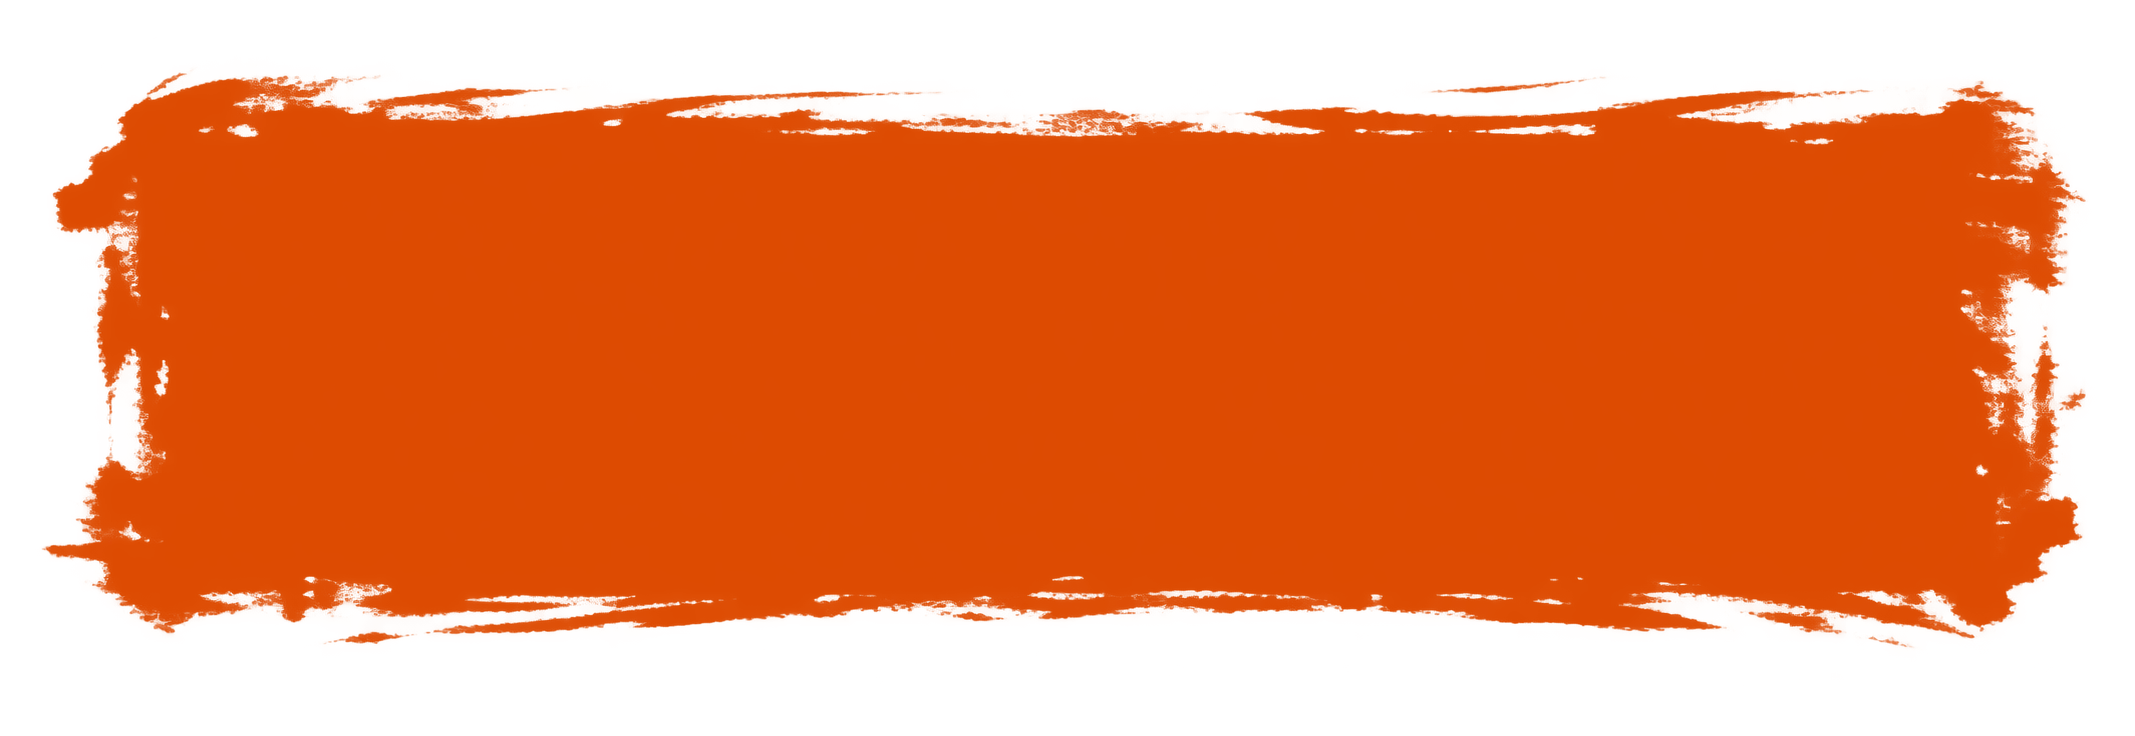
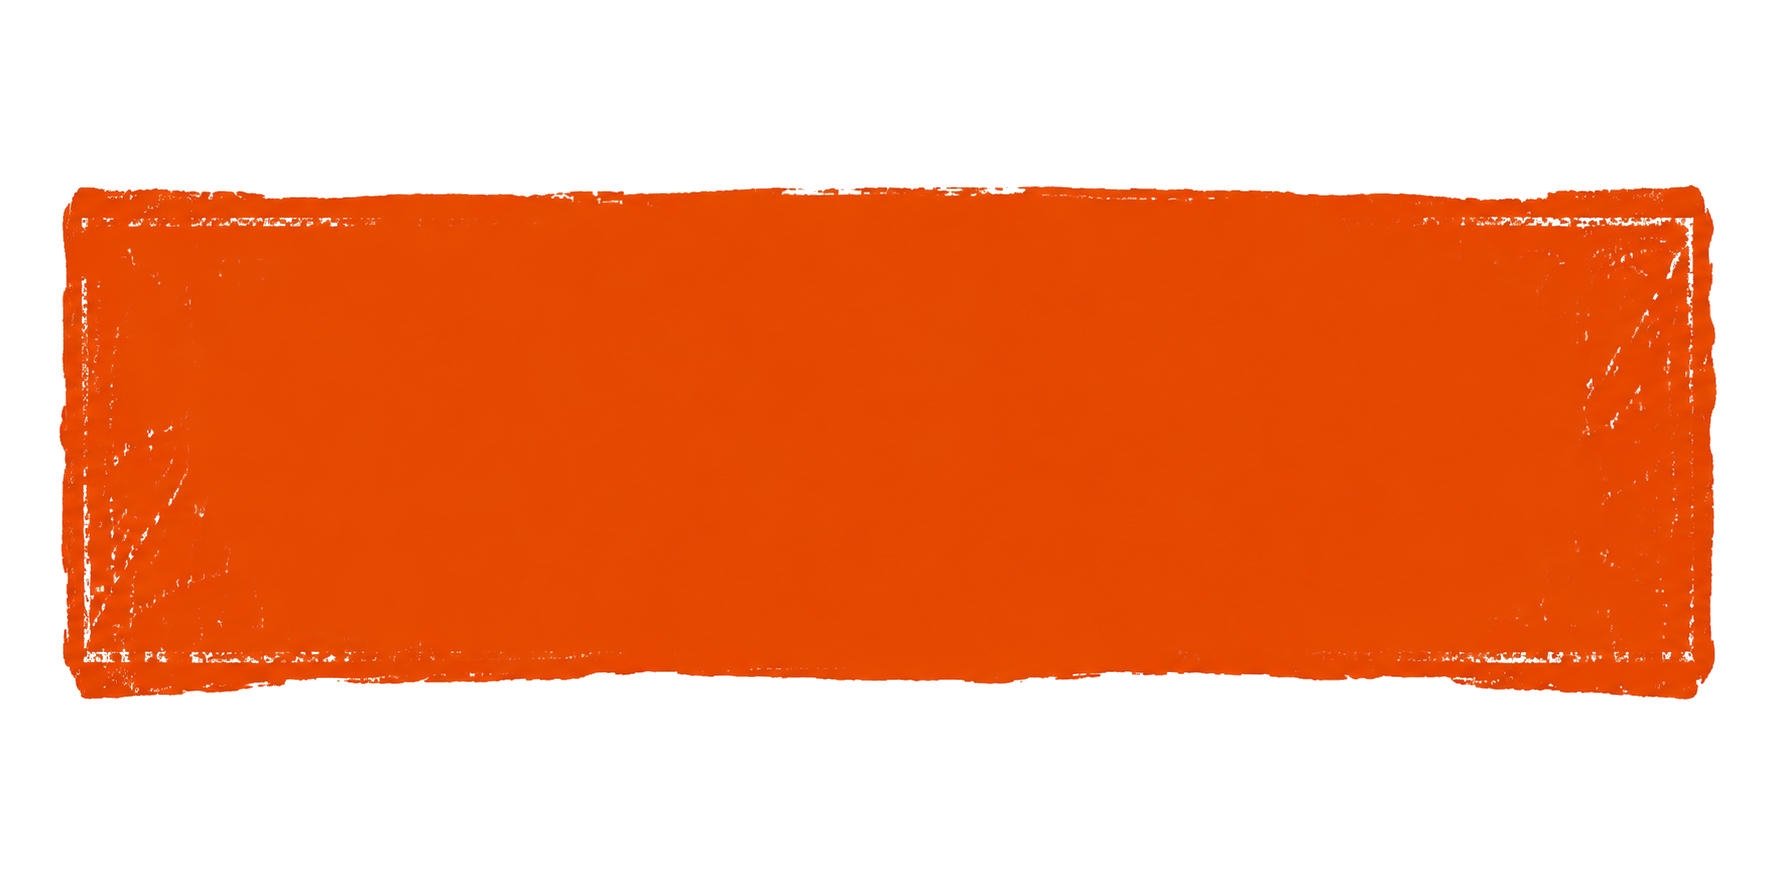
galeria de fotos tela principal

Changed region(s): [[0.0, 0.0938, 0.9921, 0.875], [0.6821, 0.0938, 0.7441, 0.125]]

diff --git a/src/css/style.css b/src/css/style.css
@@ -1346,32 +1346,39 @@ select {
 .expertise-header {
   padding-top: var(--space-section);
 }
+
 .expertise-header__container {
   max-width: 1000px;
   margin: 0 auto;
   text-align: center;
 }
+
 .expertise-header__title {
   color: var(--cor-primaria);
 }
+
 .expertise-header__text {
   color: var(--cor-texto);
   text-align: center;
   margin-bottom: 1.5rem;
 }
+
 .expertise--adjusted-padding {
   padding: 0;
 }
+
 .expertise__background--adjusted {
   background: var(--cor-terciaria);
   opacity: 0.1;
 }
+
 .expertise__container {
   position: relative;
   z-index: 1;
   padding-top: var(--container-padding-desktop);
   padding-bottom: var(--container-padding-desktop);
 }
+
 .expertise__content--centered {
   max-width: 1000px;
   margin: 0 auto;
@@ -1385,6 +1392,7 @@ select {
   gap: 1rem;
   text-align: left;
 }
+
 .transform-row {
   display: flex;
   flex-wrap: wrap;
@@ -1399,13 +1407,16 @@ select {
   border-image-repeat: round;
   padding: 0.75rem 1rem;
 }
+
 .transform-col {
   flex: 1;
   min-width: 250px;
 }
+
 .transform-col--right {
   text-align: right;
 }
+
 .transform-subtitle {
   font-size: 0.85rem;
   text-transform: uppercase;
@@ -1413,9 +1424,11 @@ select {
   color: #000;
   font-weight: bold;
 }
+
 .transform-subtitle--highlight {
   color: #000;
 }
+
 .transform-title {
   font-family: var(--font-heading);
   color: #000;
@@ -1423,9 +1436,11 @@ select {
   margin-top: 0.5rem;
   font-weight: bold;
 }
+
 .transform-title--highlight {
   color: #000;
 }
+
 .transform-arrow {
   width: 24px;
   margin: 1rem 2rem;
@@ -1449,6 +1464,12 @@ select {
   grid-template-columns: 1fr 1fr;
   gap: var(--space-md);
   align-items: stretch;
+}
+
+.solutions-overview__grid> :last-child:nth-child(odd) {
+  grid-column: 1 / -1;
+  justify-self: center;
+  width: calc(50% - (var(--space-md) / 2));
 }
 
 .solution-card {
@@ -2549,7 +2570,7 @@ main>section {
   max-width: 90%;
   max-height: 90vh;
   object-fit: contain;
-  box-shadow: 0 10px 40px rgba(0,0,0,0.5);
+  box-shadow: 0 10px 40px rgba(0, 0, 0, 0.5);
   cursor: zoom-out;
   transform: scale(0.95);
   transition: transform 0.3s ease;
@@ -2561,4 +2582,144 @@ main>section {
 
 .projeto-visualizer__image {
   cursor: zoom-in;
+}
+
+/* ==========================================================================
+   EDITORIAL GALLERY
+   ========================================================================== */
+
+.editorial-gallery {
+  display: grid;
+  grid-template-columns: 1fr 1fr;
+  gap: 0.75rem;
+  /* ~12px */
+  margin: 3rem auto;
+  max-width: 1200px;
+}
+
+.editorial-gallery__item {
+  display: flex;
+  flex-direction: column;
+  aspect-ratio: 1 / 1;
+}
+
+.editorial-gallery__item--featured {
+  grid-column: 1 / -1;
+  aspect-ratio: 4 / 3;
+}
+
+@media (min-width: 900px) {
+  .editorial-gallery {
+    grid-template-columns: 2fr 1fr 1fr;
+    grid-template-rows: 300px 300px;
+    gap: 1.5rem;
+    /* ~24px */
+  }
+
+  .editorial-gallery__item {
+    aspect-ratio: auto;
+  }
+
+  .editorial-gallery__item--featured {
+    grid-column: 1 / 2;
+    grid-row: 1 / 3;
+    aspect-ratio: auto;
+  }
+}
+
+.editorial-gallery__image-wrapper {
+  overflow: hidden;
+  width: 100%;
+  height: 100%;
+  position: relative;
+}
+
+.editorial-gallery__item .editorial-gallery__image-wrapper::after {
+  content: "";
+  position: absolute;
+  top: 0;
+  left: 0;
+  right: 0;
+  bottom: 0;
+  pointer-events: none;
+  border: 16px solid transparent;
+  border-image-source: url('../assets/img/elements/border-gallery-1.webp');
+  border-image-slice: 85;
+  border-image-width: 16px;
+  border-image-repeat: stretch;
+  z-index: 2;
+  box-sizing: border-box;
+}
+
+.editorial-gallery__item:nth-child(even) .editorial-gallery__image-wrapper::after {
+  border-image-source: url('../assets/img/elements/border-gallery-2.webp');
+}
+
+.editorial-gallery__image {
+  width: 100%;
+  height: 100%;
+  object-fit: cover;
+  display: block;
+  transition: transform 0.5s cubic-bezier(0.25, 0.46, 0.45, 0.94);
+}
+
+.editorial-gallery__item:hover .editorial-gallery__image {
+  transform: scale(1.05);
+}
+
+/* Home Gallery Grid */
+.home-gallery-grid {
+  display: grid;
+  grid-template-columns: 2fr 1fr 1fr;
+  grid-template-rows: 1fr 1fr;
+  gap: 20px;
+  width: 100%;
+  margin: 3rem 0;
+}
+
+.home-gallery-grid .gallery-item {
+  overflow: hidden;
+  cursor: pointer;
+  position: relative;
+  width: 100%;
+  height: 100%;
+}
+
+.home-gallery-grid .gallery-item::after {
+  content: "";
+  position: absolute;
+  top: 0;
+  left: 0;
+  right: 0;
+  bottom: 0;
+  pointer-events: none;
+  border: 16px solid transparent;
+  border-image-source: url('../assets/img/elements/border-gallery-1.webp');
+  border-image-slice: 85;
+  border-image-width: 16px;
+  border-image-repeat: stretch;
+  z-index: 2;
+  box-sizing: border-box;
+}
+
+.home-gallery-grid .gallery-item:nth-child(even)::after {
+  border-image-source: url('../assets/img/elements/border-gallery-2.webp');
+}
+
+.home-gallery-grid .gallery-item:first-child {
+  grid-column: 1 / 2;
+  grid-row: 1 / 3;
+  aspect-ratio: 16 / 10; 
+}
+
+.home-gallery-grid .gallery-image {
+  width: 100%;
+  height: 100%;
+  object-fit: cover;
+  display: block;
+  transition: transform 0.5s cubic-bezier(0.25, 0.46, 0.45, 0.94);
+}
+
+.home-gallery-grid .gallery-item:hover .gallery-image {
+  transform: scale(1.05);
 }

diff --git a/index.html b/index.html
@@ -51,8 +51,7 @@
                 <div class="hero__buttons" style="display: flex; gap: 1rem; flex-wrap: wrap; justify-content: center;">
                     <a href="solucoes.html" class="btn-cta hero__btn"><span class="btn-text">Conheça nossas
                             experiências</span></a>
-                    <a href="contato.html" class="btn-cta hero__btn"
-                        style="background: rgba(0,0,0,0.3); backdrop-filter: blur(5px); border: 1px solid var(--cor-areia-clara);"><span
+                    <a href="contato.html" class="btn-cta hero__btn"><span
                             class="btn-text">Converse sobre um projeto</span></a>
                 </div>
             </div>
@@ -490,34 +489,23 @@
                 </h2>
                 <img src="src/assets/img/icons/linha-ar.webp" alt="" class="section-title-divider center">
 
-                <div
-                    style="display: grid; grid-template-columns: repeat(auto-fit, minmax(250px, 1fr)); gap: 1rem; margin: 3rem 0;">
-                    <div style="border-radius: 8px; overflow: hidden; height: 250px; cursor: pointer;"
-                        class="gallery-item">
-                        <img src="src/assets/img/placeholder.webp" alt="Galeria 1" class="gallery-image"
-                            style="width: 100%; height: 100%; object-fit: cover; transition: transform 0.3s ease;">
+                <div class="home-gallery-grid">
+                    <div class="gallery-item">
+                        <img src="src/assets/img/pictures/fotos-portifolio/geral/1.jpeg" alt="Galeria Destaque" class="gallery-image" style="object-position: center;">
                     </div>
-                    <div style="border-radius: 8px; overflow: hidden; height: 250px; cursor: pointer;"
-                        class="gallery-item">
-                        <img src="src/assets/img/placeholder.webp" alt="Galeria 2" class="gallery-image"
-                            style="width: 100%; height: 100%; object-fit: cover; transition: transform 0.3s ease;">
+                    <div class="gallery-item">
+                        <img src="src/assets/img/pictures/fotos-portifolio/geral/2.jpeg" alt="Galeria 2" class="gallery-image" style="object-position: center;">
                     </div>
-                    <div style="border-radius: 8px; overflow: hidden; height: 250px; cursor: pointer;"
-                        class="gallery-item">
-                        <img src="src/assets/img/placeholder.webp" alt="Galeria 3" class="gallery-image"
-                            style="width: 100%; height: 100%; object-fit: cover; transition: transform 0.3s ease;">
+                    <div class="gallery-item">
+                        <img src="src/assets/img/pictures/fotos-portifolio/geral/3.jpeg" alt="Galeria 3" class="gallery-image" style="object-position: center;">
                     </div>
-                    <div style="border-radius: 8px; overflow: hidden; height: 250px; cursor: pointer;"
-                        class="gallery-item">
-                        <img src="src/assets/img/placeholder.webp" alt="Galeria 4" class="gallery-image"
-                            style="width: 100%; height: 100%; object-fit: cover; transition: transform 0.3s ease;">
+                    <div class="gallery-item">
+                        <img src="src/assets/img/pictures/fotos-portifolio/geral/4.jpeg" alt="Galeria 4" class="gallery-image" style="object-position: center;">
+                    </div>
+                    <div class="gallery-item">
+                        <img src="src/assets/img/pictures/fotos-portifolio/geral/5.jpeg" alt="Galeria 5" class="gallery-image" style="object-position: center;">
                     </div>
                 </div>
-                <style>
-                    .gallery-item:hover .gallery-image {
-                        transform: scale(1.05);
-                    }
-                </style>
 
                 <a href="projetos.html" class="btn-cta" style="margin-top: 1rem;">
                     <span class="btn-text">Conheça nossos Projetos</span>

diff --git a/src/css/responsive.css b/src/css/responsive.css
@@ -295,6 +295,21 @@
   .expertise__text {
     font-size: var(--font-size-md);
   }
+
+  /* Home Gallery Grid Mobile */
+  .home-gallery-grid {
+    grid-template-columns: 1fr 1fr;
+    grid-template-rows: auto;
+    gap: 12px;
+  }
+  .home-gallery-grid .gallery-item:first-child {
+    grid-column: 1 / 3;
+    grid-row: auto;
+    aspect-ratio: 4 / 3;
+  }
+  .home-gallery-grid .gallery-item:not(:first-child) {
+    aspect-ratio: 1 / 1;
+  }
 }
 
 /* SMALL SMARTPHONES (Up to 480px) */
